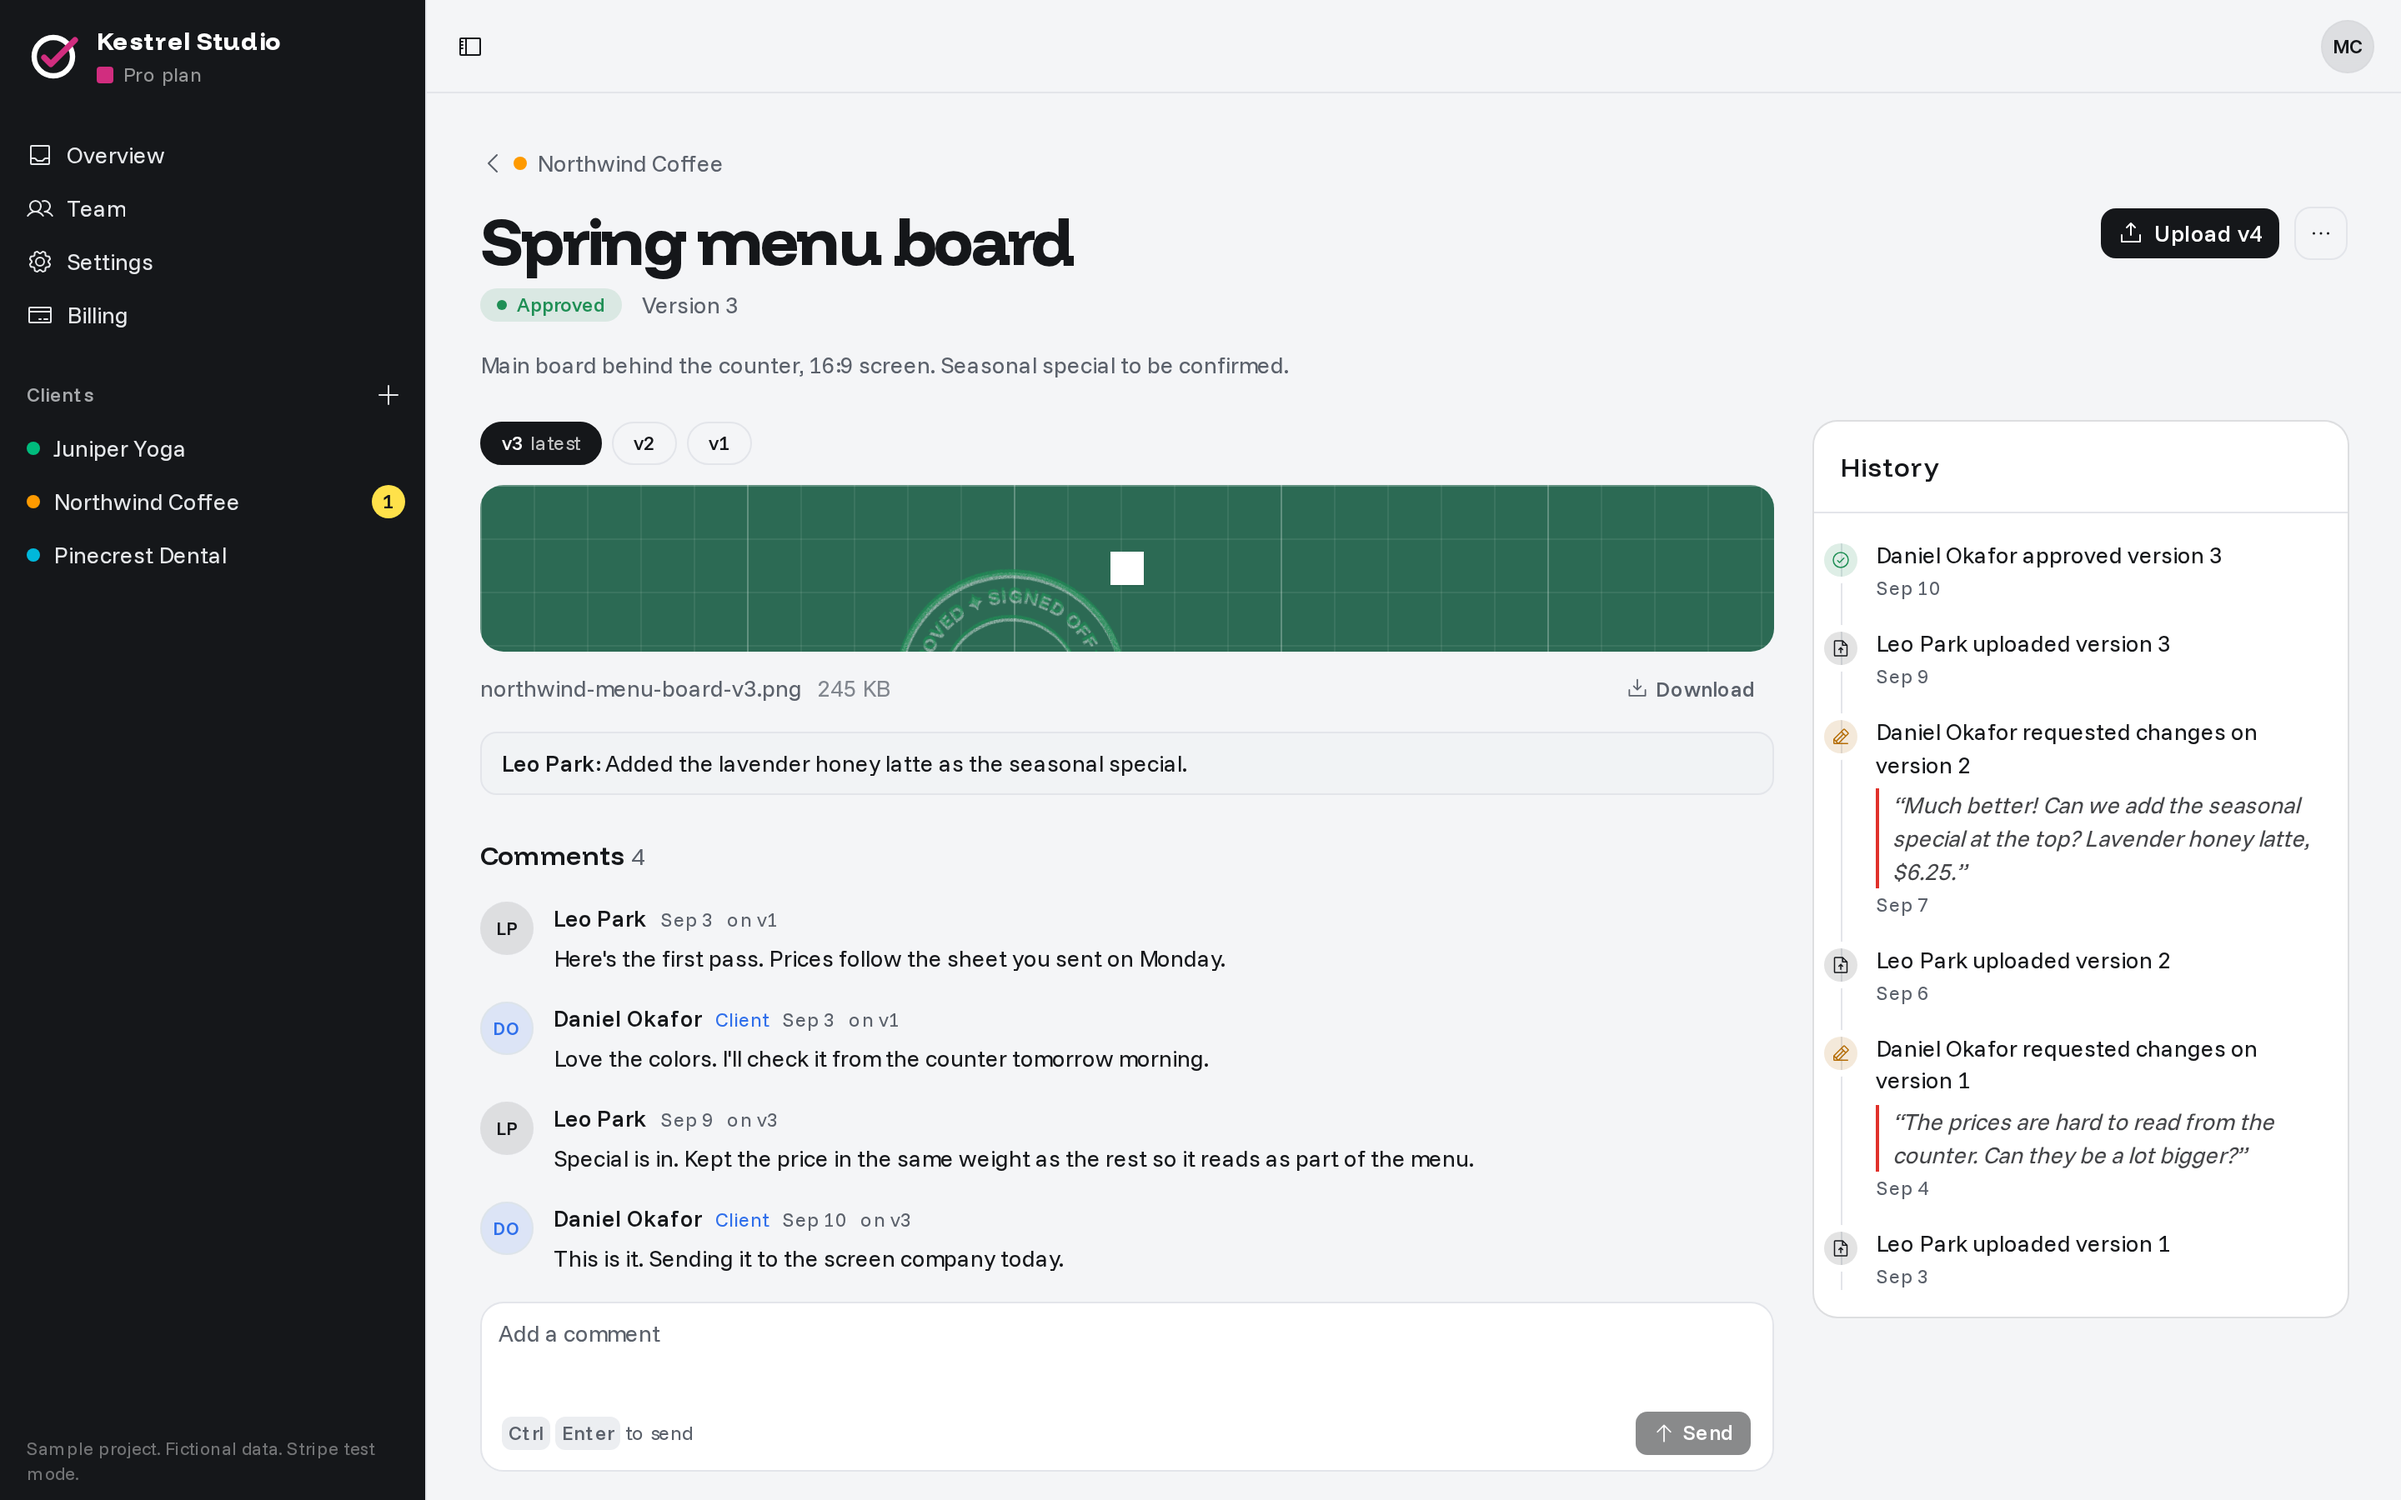
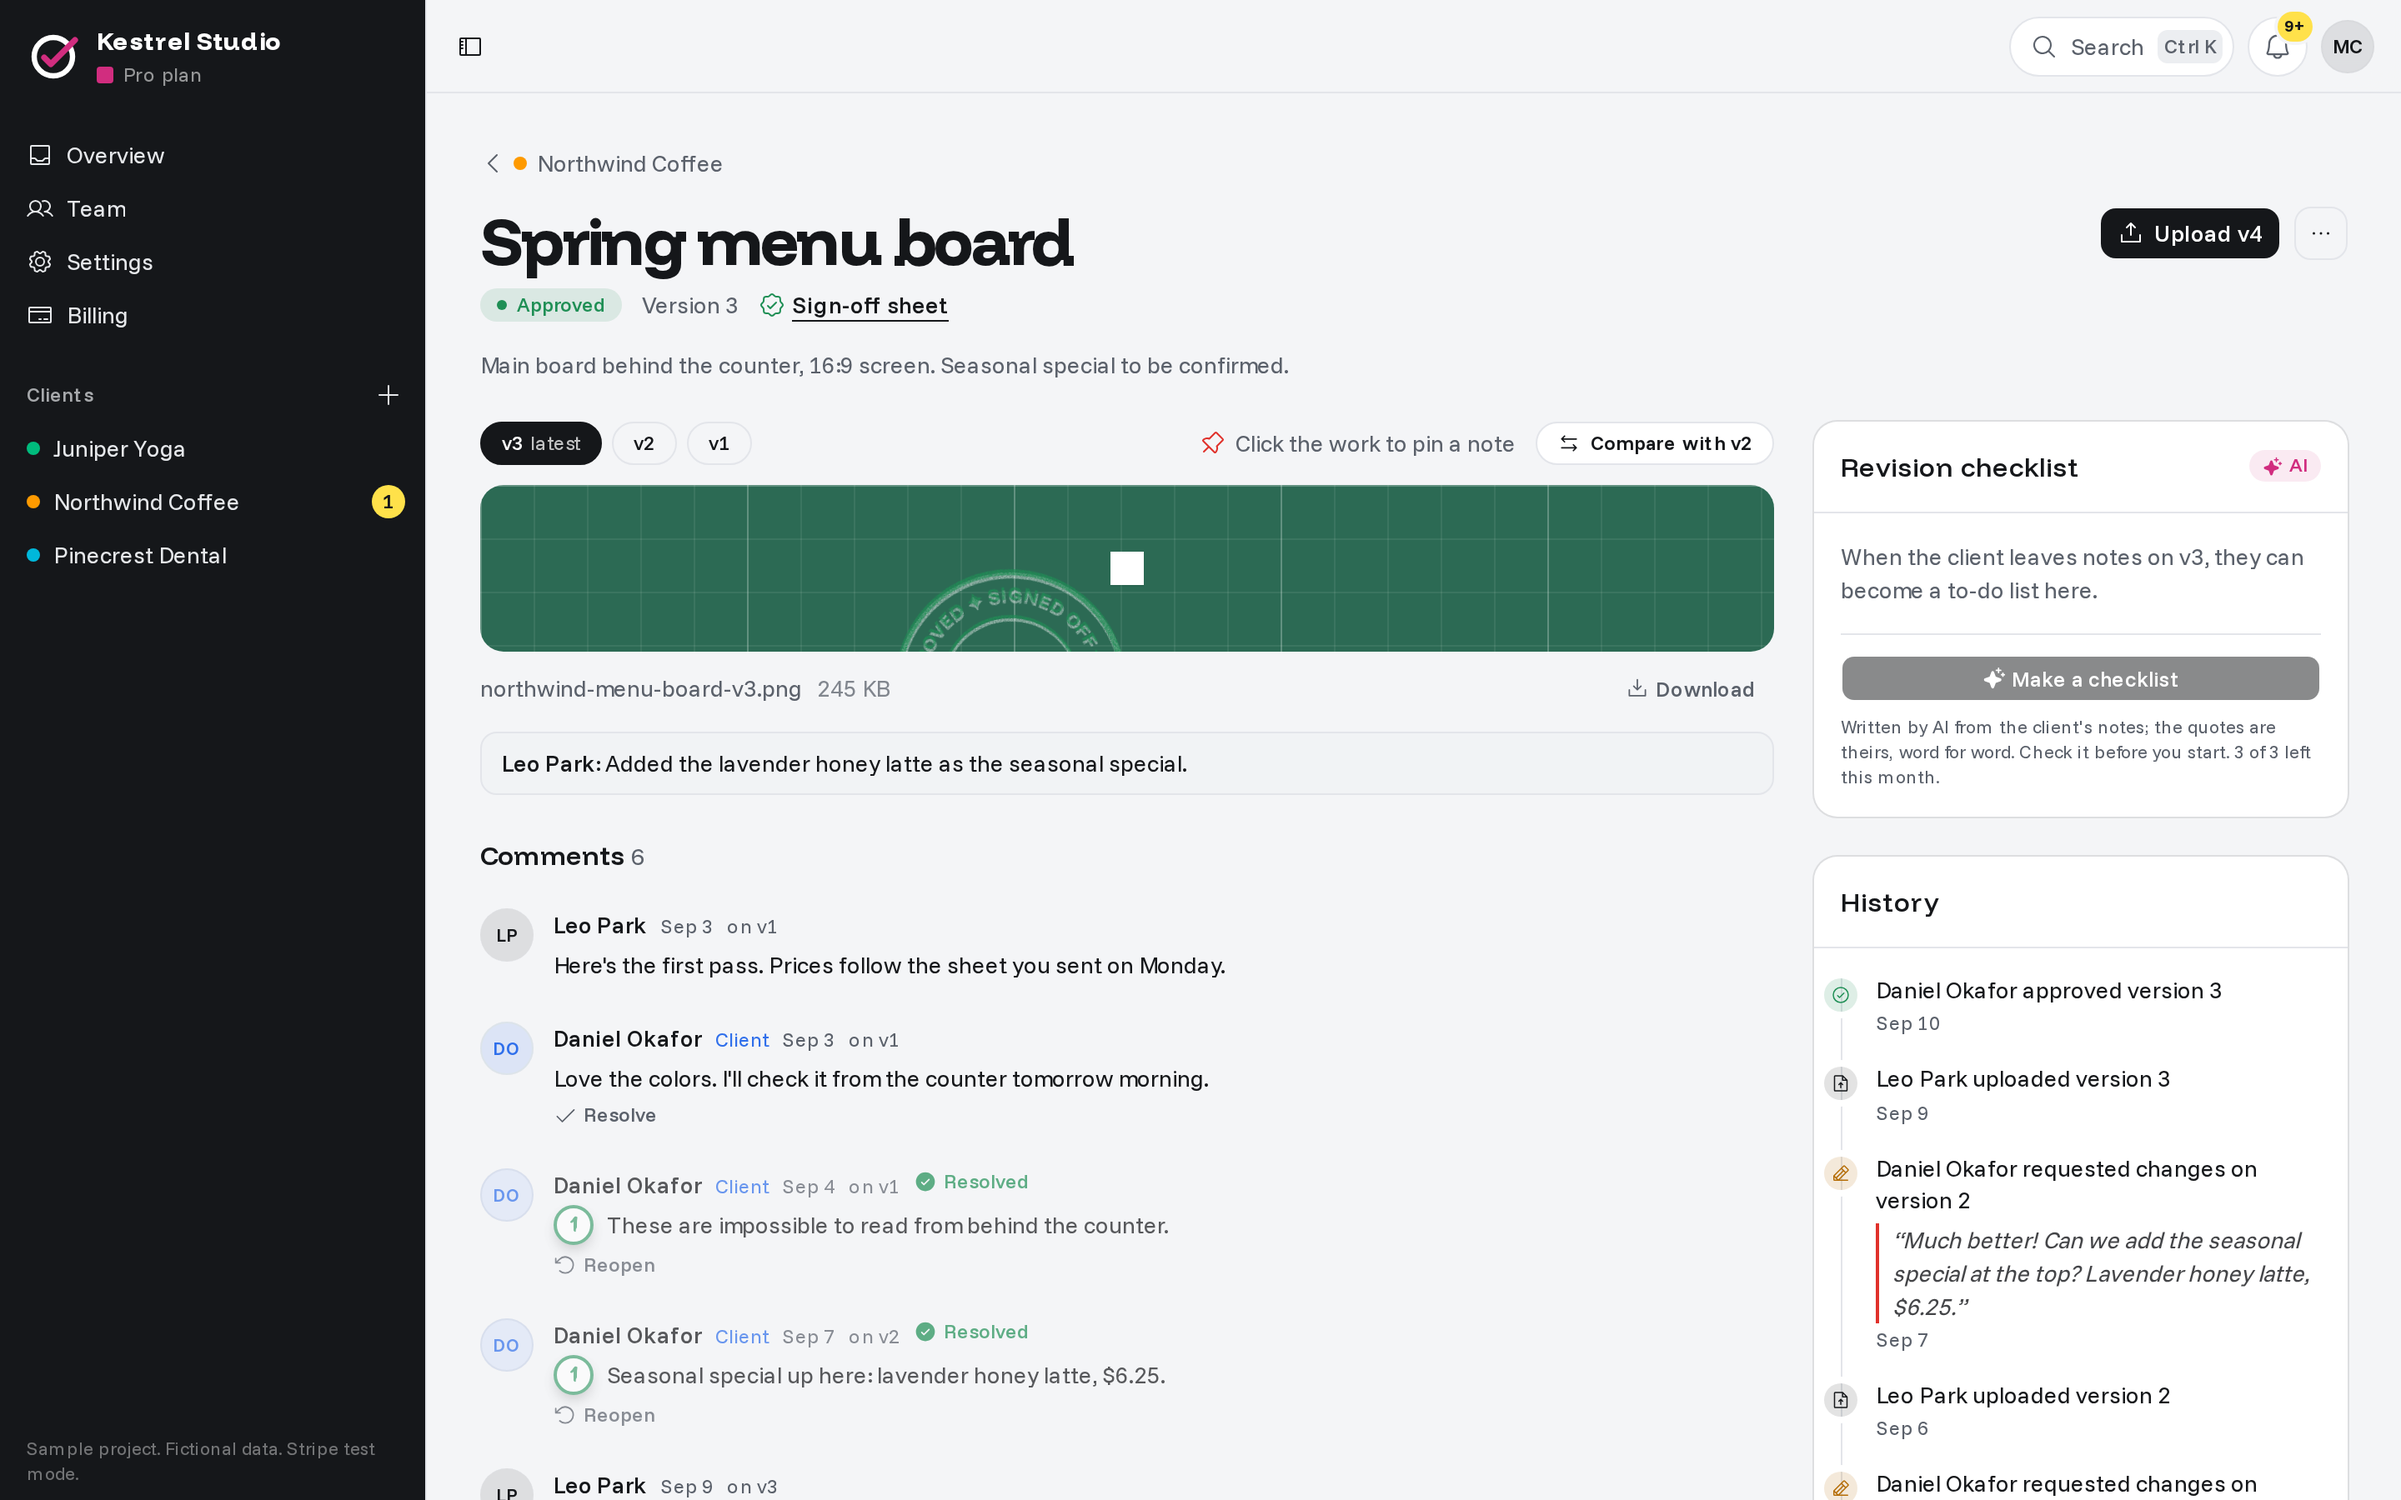
Quieter approved work; product screens recaptured from production
Approved deliverables no longer offer an empty AI checklist or "Resolve"
on friendly comments; resolved notes can still be reopened.

diff --git a/src/app/w/[slug]/d/[deliverableId]/page.tsx b/src/app/w/[slug]/d/[deliverableId]/page.tsx
@@ -356,9 +356,11 @@ async function Deliverable({
                           <span className="min-w-0">{c.body}</span>
                         </p>
                       )}
-                      {!c.deleted && (c.authorId === ws.userId || (ws.isTeam && (c.authorIsClient || c.pin))) && (
+                      {!c.deleted && (c.authorId === ws.userId || (ws.isTeam && (c.authorIsClient || c.pin) && (d.status !== "approved" || c.resolvedAt))) && (
                         <div className="mt-1 flex gap-3">
-                          {ws.isTeam && (c.authorIsClient || c.pin) && <ResolveButton slug={slug} commentId={c.id} resolved={!!c.resolvedAt} />}
+                          {ws.isTeam && (c.authorIsClient || c.pin) && (d.status !== "approved" || c.resolvedAt) && (
+                            <ResolveButton slug={slug} commentId={c.id} resolved={!!c.resolvedAt} />
+                          )}
                           {c.authorId === ws.userId && <DeleteCommentButton slug={slug} commentId={c.id} />}
                         </div>
                       )}
@@ -372,7 +374,8 @@ async function Deliverable({
         </div>
 
         <aside className="space-y-6">
-          {ws.isTeam && latest && (
+          {/* Approved work has nothing left to do, unless a checklist was already made for it. */}
+          {ws.isTeam && latest && (d.status !== "approved" || checklist) && (
             <ChecklistCard
               slug={slug}
               deliverableId={d.id}
